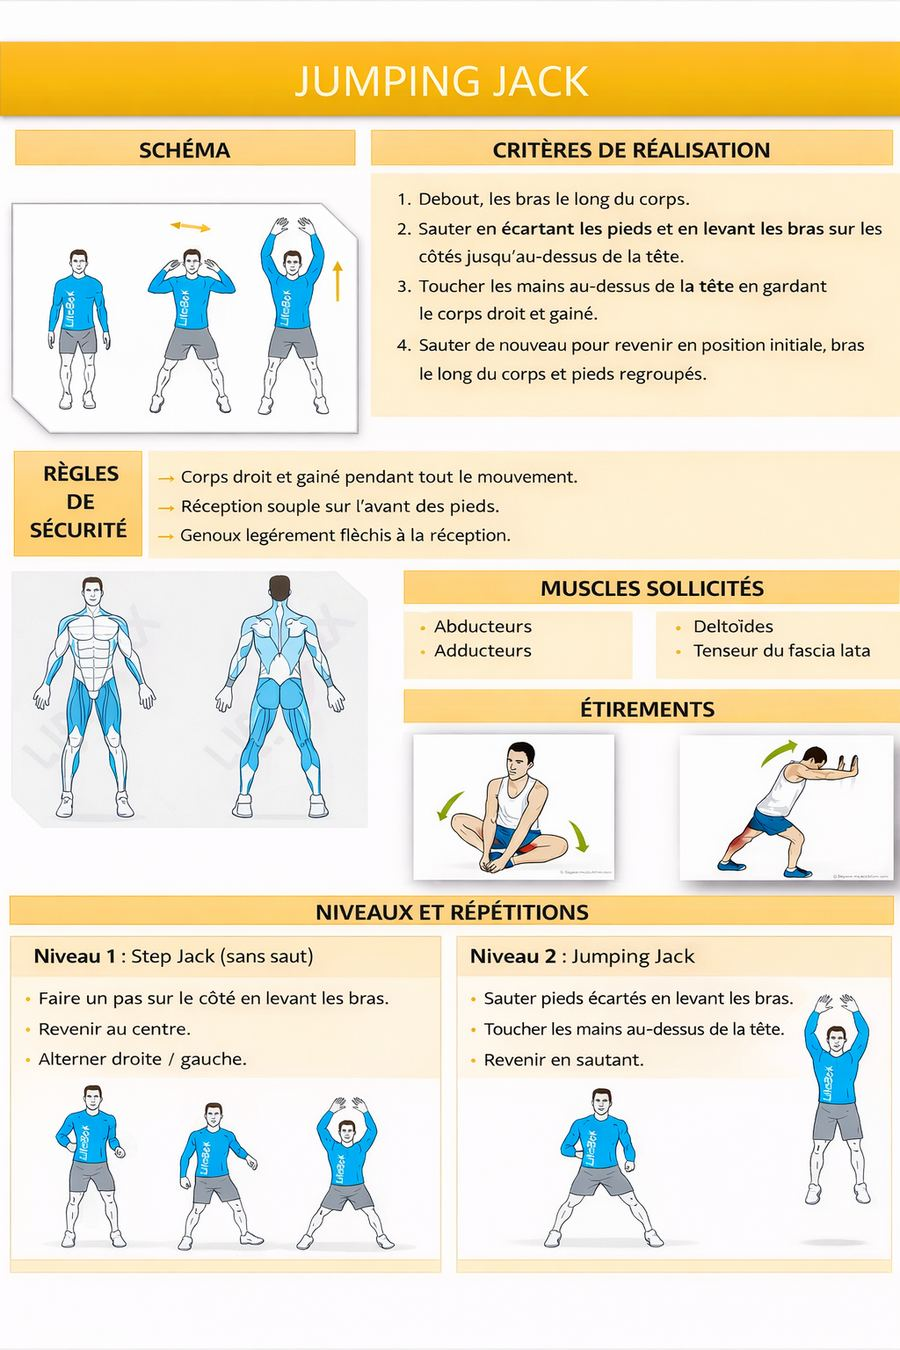
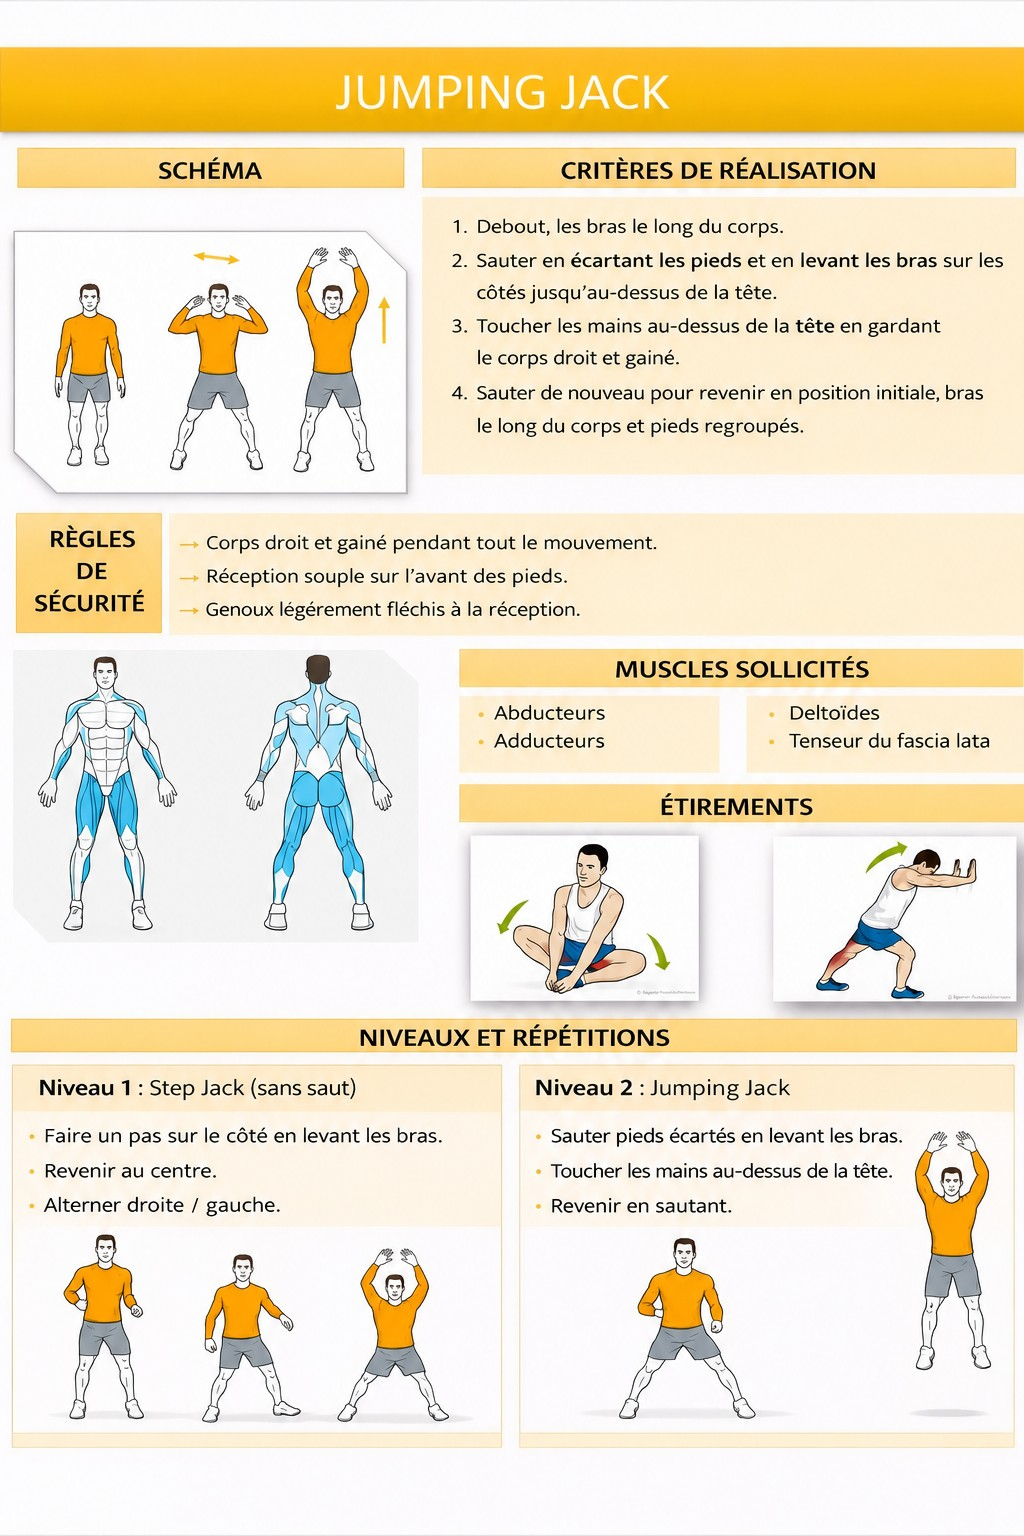
Harmoniser les t-shirts et retirer les mentions LitoBox des fiches concernées

diff --git a/sw.js b/sw.js
@@ -1,6 +1,6 @@
 /* Cross Training v2 — mode hors-ligne (réseau d'abord, sinon cache).
  * Augmenter VERSION à chaque mise en ligne. */
-const VERSION = "crosstraining-v2-2026-11-12b";
+const VERSION = "crosstraining-v2-2026-11-12c";
 const PREFIX = "crosstraining-v2-";
 const FILES = ["./", "index.html", "app.css", "app.js", "data.js", "lib/qrcode.js", "lib/jsQR.js", "manifest.webmanifest", "icons/icon-192.png", "icons/icon-512.png", "icons/apple-touch-icon.png",
   "img/burpees.jpg", "img/crunch.jpg", "img/dips.jpg", "img/fentes.jpg", "img/jumping-jack.jpg", "img/mountain.jpg",
